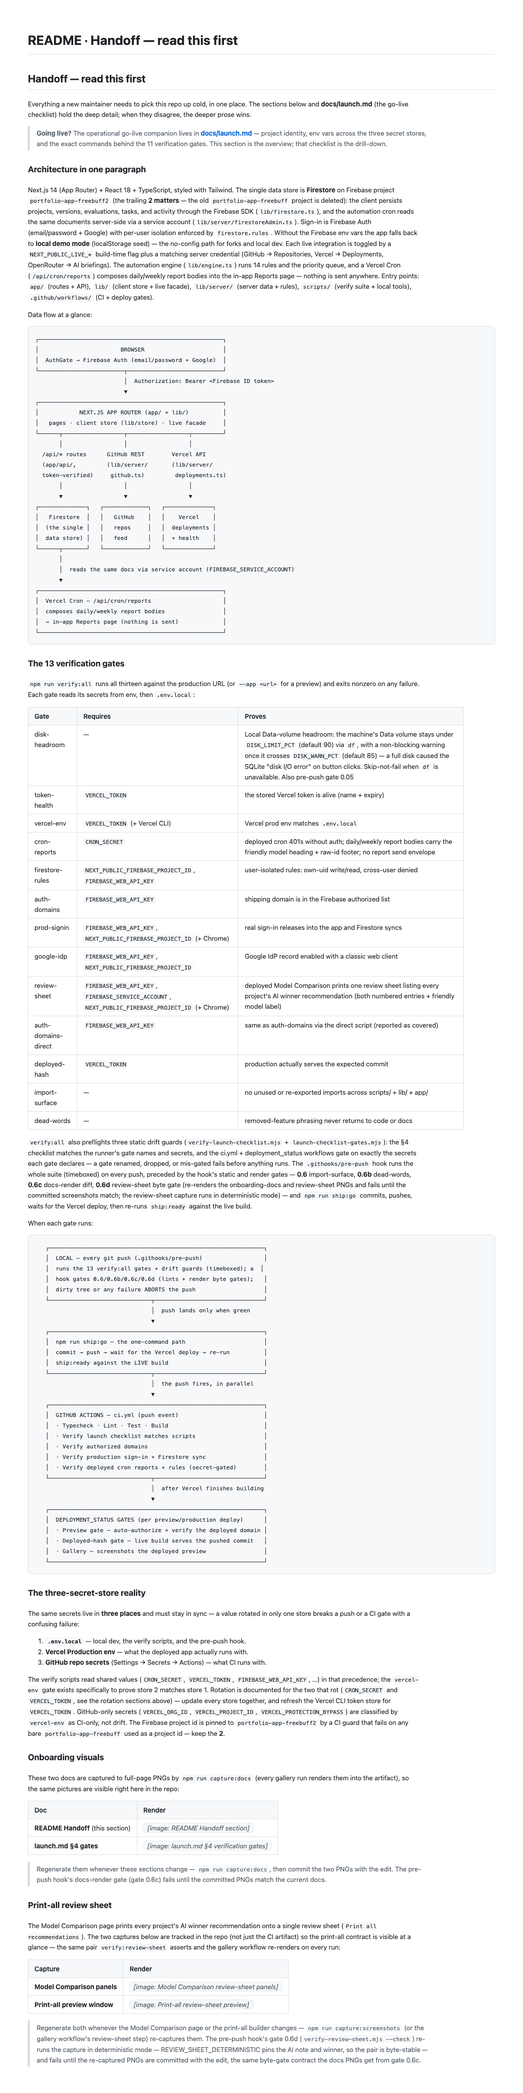
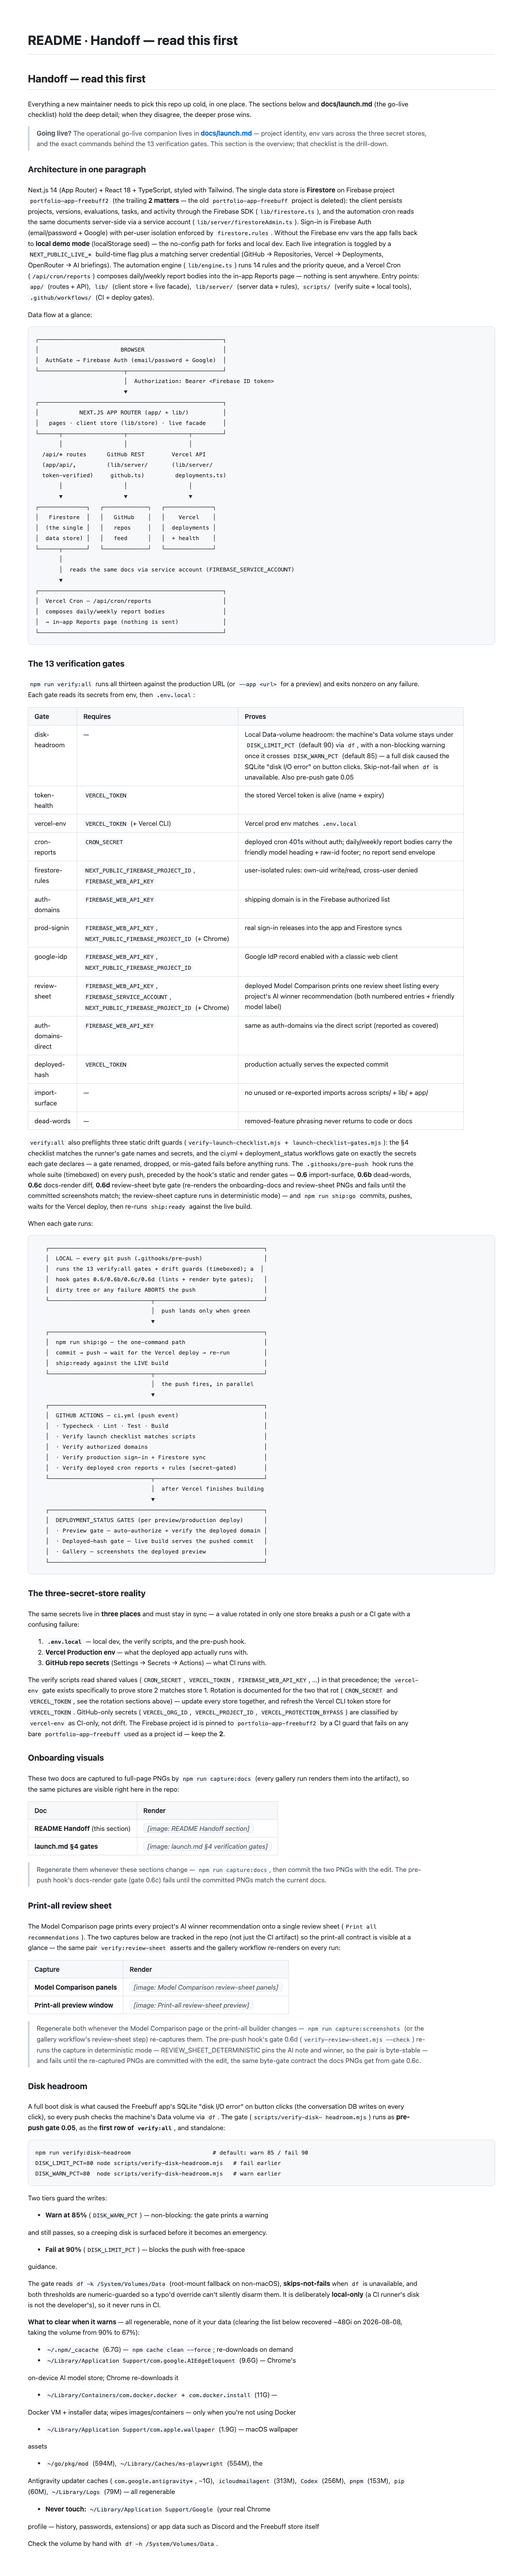
docs(readme): record disk-headroom warn tier and safe-to-clear stores
Document the 85% warn / 90% fail tiers of verify:disk-headroom plus the
regenerable cleanup list that recovered ~48Gi on 2026-08-08, so future
maintenance has the guard's thresholds and today's steps in one place.

Generated with Codebuff 🤖

Changed region(s): [[0.0308, 0.0, 0.8633, 0.9935]]

diff --git a/README.md b/README.md
@@ -37,7 +37,7 @@ deep detail; when they disagree, the deeper prose wins.
 
 > **Going live?** The operational go-live companion lives in
 > [**docs/launch.md**](docs/launch.md) — project identity, env vars across the
-> three secret stores, and the exact commands behind the 11 verification
+> three secret stores, and the exact commands behind the 13 verification
 > gates. This section is the overview; that checklist is the drill-down.
 
 ### Architecture in one paragraph
@@ -222,6 +222,56 @@ gallery workflow re-renders on every run:
 > mode — REVIEW_SHEET_DETERMINISTIC pins the AI note and winner, so the pair
 > is byte-stable — and fails until the re-captured PNGs are committed with
 > the edit, the same byte-gate contract the docs PNGs get from gate 0.6c.
+
+### Disk headroom
+
+A full boot disk is what caused the Freebuff app's SQLite "disk I/O error" on
+button clicks (the conversation DB writes on every click), so every push
+checks the machine's Data volume via `df`. The gate (`scripts/verify-disk-
+headroom.mjs`) runs as **pre-push gate 0.05**, as the **first row of
+`verify:all`**, and standalone:
+
+```bash
+npm run verify:disk-headroom                        # default: warn 85 / fail 90
+DISK_LIMIT_PCT=80 node scripts/verify-disk-headroom.mjs   # fail earlier
+DISK_WARN_PCT=80  node scripts/verify-disk-headroom.mjs   # warn earlier
+```
+
+Two tiers guard the writes:
+
+- **Warn at 85%** (`DISK_WARN_PCT`) — non-blocking: the gate prints a warning
+  and still passes, so a creeping disk is surfaced before it becomes an
+  emergency.
+- **Fail at 90%** (`DISK_LIMIT_PCT`) — blocks the push with free-space
+  guidance.
+
+The gate reads `df -k /System/Volumes/Data` (root-mount fallback on
+non-macOS), **skips-not-fails** when `df` is unavailable, and both thresholds
+are numeric-guarded so a typo'd override can't silently disarm them. It is
+deliberately **local-only** (a CI runner's disk is not the developer's), so it
+never runs in CI.
+
+**What to clear when it warns** — all regenerable, none of it your data
+(clearing the list below recovered ~48Gi on 2026-08-08, taking the volume from
+90% to 67%):
+
+- `~/.npm/_cacache` (6.7G) — `npm cache clean --force`; re-downloads on demand
+- `~/Library/Application Support/com.google.AIEdgeEloquent` (9.6G) — Chrome's
+  on-device AI model store; Chrome re-downloads it
+- `~/Library/Containers/com.docker.docker` + `com.docker.install` (11G) —
+  Docker VM + installer data; wipes images/containers — only when you're not
+  using Docker
+- `~/Library/Application Support/com.apple.wallpaper` (1.9G) — macOS wallpaper
+  assets
+- `~/go/pkg/mod` (594M), `~/Library/Caches/ms-playwright` (554M), the
+  Antigravity updater caches (`com.google.antigravity*`, ~1G), `icloudmailagent`
+  (313M), `Codex` (256M), `pnpm` (153M), `pip` (60M), `~/Library/Logs` (79M) —
+  all regenerable
+- **Never touch:** `~/Library/Application Support/Google` (your real Chrome
+  profile — history, passwords, extensions) or app data such as Discord and
+  the Freebuff store itself
+
+Check the volume by hand with `df -h /System/Volumes/Data`.
 
 ## Screenshots
 
